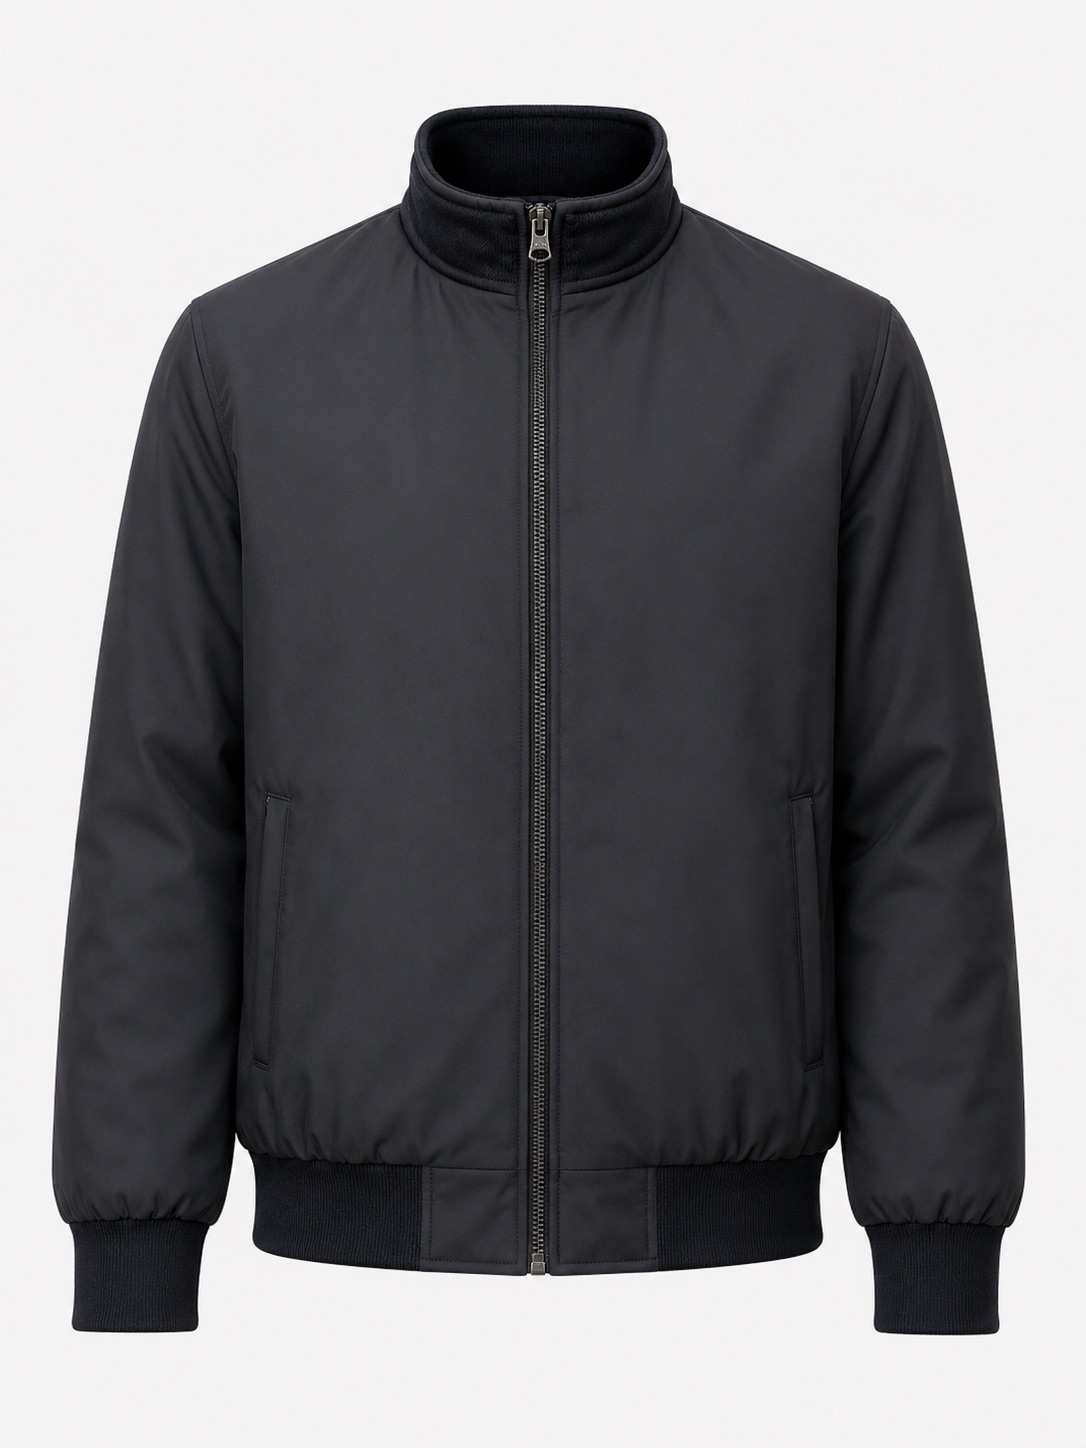
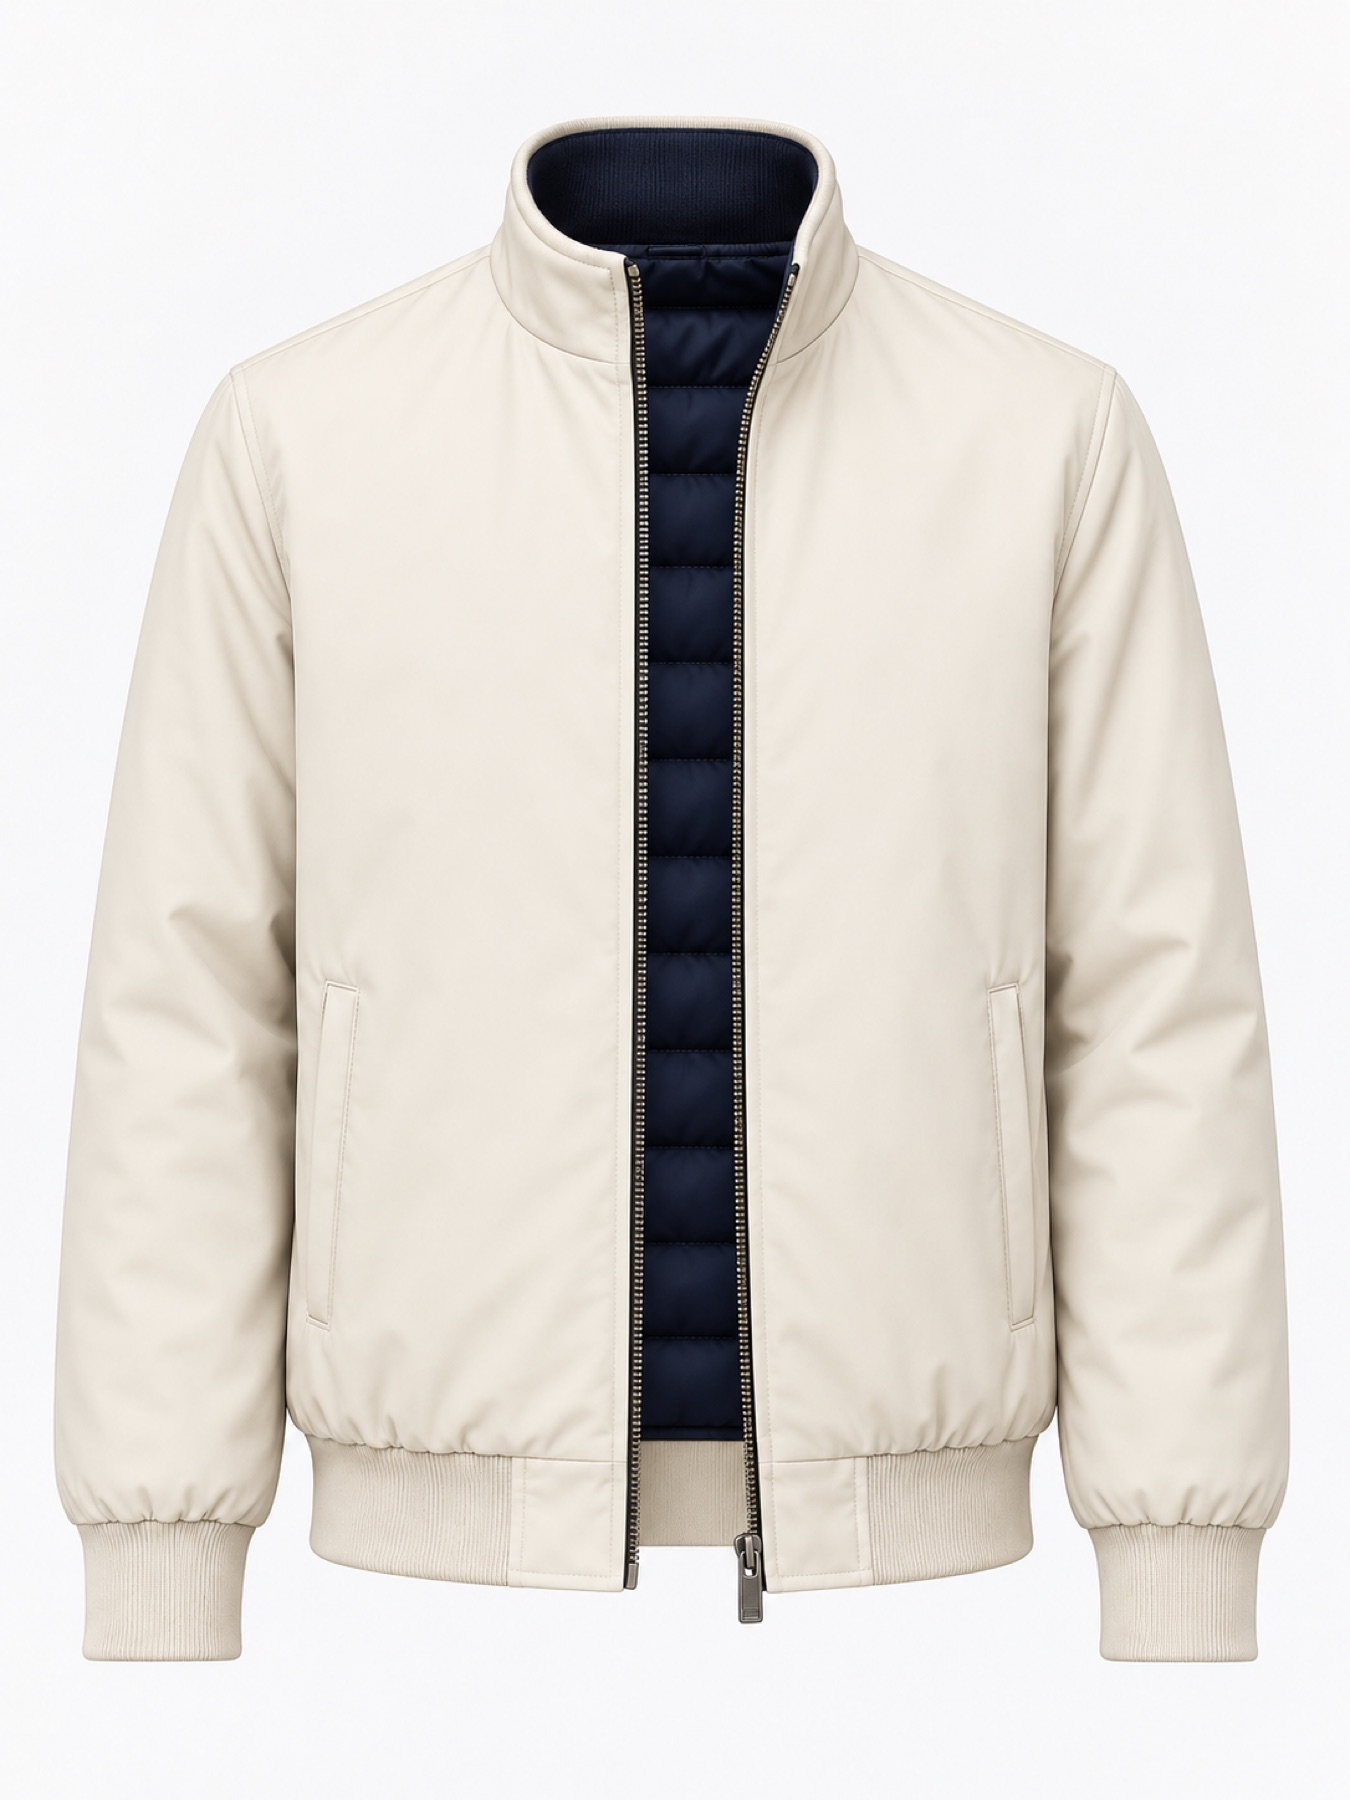
Add color-linked product photos

diff --git a/script.js b/script.js
@@ -1398,17 +1398,17 @@ Object.assign(productImagesById, {
   "157": [1, 2, 3],
   "158": [1, 2],
   "159": [1, 2, 3],
-  "160": [1],
-  "161": [1],
-  "162": [1],
+  "160": [1, 2],
+  "161": [1, 2, 3],
+  "162": [1, 2, 3],
   "163": [1],
-  "164": [1],
-  "165": [1],
-  "166": [1],
-  "167": [1],
+  "164": [1, 2, 3, 4],
+  "165": [1, 2, 3],
+  "166": [1, 2, 3],
+  "167": [1, 2],
   "168": [1],
-  "169": [1],
-  "170": [1],
+  "169": [1, 2, 3, 4],
+  "170": [1, 2, 3, 4],
   "171": [1],
   "172": [1, 2, 3, 4],
   "182": [1, 2, 3, 4],
@@ -1526,7 +1526,7 @@ Object.entries(winterImageAdditionsByProductId).forEach(([productId, photoNumber
   ])].sort((a, b) => a - b);
 });
 
-const IMAGE_ASSET_VERSION = "20260910-01";
+const IMAGE_ASSET_VERSION = "20260915-08";
 
 const PRODUCTION_2027_IMAGE_SOURCE_BY_PRODUCT_ID = {
   118: 48,  // Merano
@@ -1625,6 +1625,16 @@ function getProductImageSources(id) {
 
 // Foto principal por color. El numero corresponde a prod_ID_NUMERO.
 const colorImageByProductId = {
+  160: { "Marrón": 1, "Negro": 2 },
+  161: { "Camel": 1, "Negro": 2, "Chocolate": 3 },
+  162: { "Camel": 1, "Chocolate": 2, "Negro": 3 },
+  164: { "Beige": 1, "Chocolate": 2, "Camel": 3, "Negro": 4 },
+  159: { "Oliva": 1, "Negro": 2, "Gris": 3 },
+  165: { "Gris Oscuro": 1, "Beige": 2, "Negro": 3 },
+  166: { "Negro/Beige": 1, "Azul/Blanco": 2, "Rojo/Azul": 3 },
+  167: { "Negro": 1, "Chocolate": 2 },
+  169: { "Chocolate": 1, "Marrón": 2, "Camel": 3, "Negro": 4 },
+  170: { "Crudo/Marino": 1, "Negro/Marino": 2, "Marino": 3, "Negro": 4 },
   157: { "Negro": 1, "Camel": 2, "Oliva": 3 },
   156: { "Negro": 1, "Gris": 2, "Oliva": 3 },
   155: { "Negro": 1, "Melange claro": 2, "Melange oscuro": 3, "Beige": 4 },
@@ -3198,6 +3208,66 @@ const comisoProduct = production2027Products.find(product => product.id === 154)
 if (comisoProduct) {
   comisoProduct.colors = ["Negro", "Chocolate", "Camel"];
   comisoProduct.preserveCatalogColors = true;
+}
+
+const carlAldenoProduct = production2027Products.find(product => product.id === 160);
+if (carlAldenoProduct) {
+  carlAldenoProduct.colors = ["Marrón", "Negro"];
+  carlAldenoProduct.preserveCatalogColors = true;
+}
+
+const floydProduct = production2027Products.find(product => product.id === 161);
+if (floydProduct) {
+  floydProduct.colors = ["Camel", "Negro", "Chocolate"];
+  floydProduct.preserveCatalogColors = true;
+}
+
+const stephenProduct = production2027Products.find(product => product.id === 162);
+if (stephenProduct) {
+  stephenProduct.colors = ["Camel", "Chocolate", "Negro"];
+  stephenProduct.preserveCatalogColors = true;
+}
+
+const curnoProduct = production2027Products.find(product => product.id === 164);
+if (curnoProduct) {
+  curnoProduct.colors = ["Beige", "Chocolate", "Camel", "Negro"];
+  curnoProduct.preserveCatalogColors = true;
+}
+
+const malvitoProduct = production2027Products.find(product => product.id === 159);
+if (malvitoProduct) {
+  malvitoProduct.colors = ["Oliva", "Negro", "Gris"];
+  malvitoProduct.preserveCatalogColors = true;
+}
+
+const odingaProduct = production2027Products.find(product => product.id === 165);
+if (odingaProduct) {
+  odingaProduct.colors = ["Gris Oscuro", "Beige", "Negro"];
+  odingaProduct.preserveCatalogColors = true;
+}
+
+const aidoneProduct = production2027Products.find(product => product.id === 166);
+if (aidoneProduct) {
+  aidoneProduct.colors = ["Negro/Beige", "Azul/Blanco", "Rojo/Azul"];
+  aidoneProduct.preserveCatalogColors = true;
+}
+
+const carpinoProduct = production2027Products.find(product => product.id === 167);
+if (carpinoProduct) {
+  carpinoProduct.colors = ["Negro", "Chocolate"];
+  carpinoProduct.preserveCatalogColors = true;
+}
+
+const jamalProduct = production2027Products.find(product => product.id === 169);
+if (jamalProduct) {
+  jamalProduct.colors = ["Chocolate", "Marrón", "Camel", "Negro"];
+  jamalProduct.preserveCatalogColors = true;
+}
+
+const mikeyProduct = production2027Products.find(product => product.id === 170);
+if (mikeyProduct) {
+  mikeyProduct.colors = ["Crudo/Marino", "Negro/Marino", "Marino", "Negro"];
+  mikeyProduct.preserveCatalogColors = true;
 }
 
 const aimmenProduct = production2027Products.find(product => product.id === 172);
